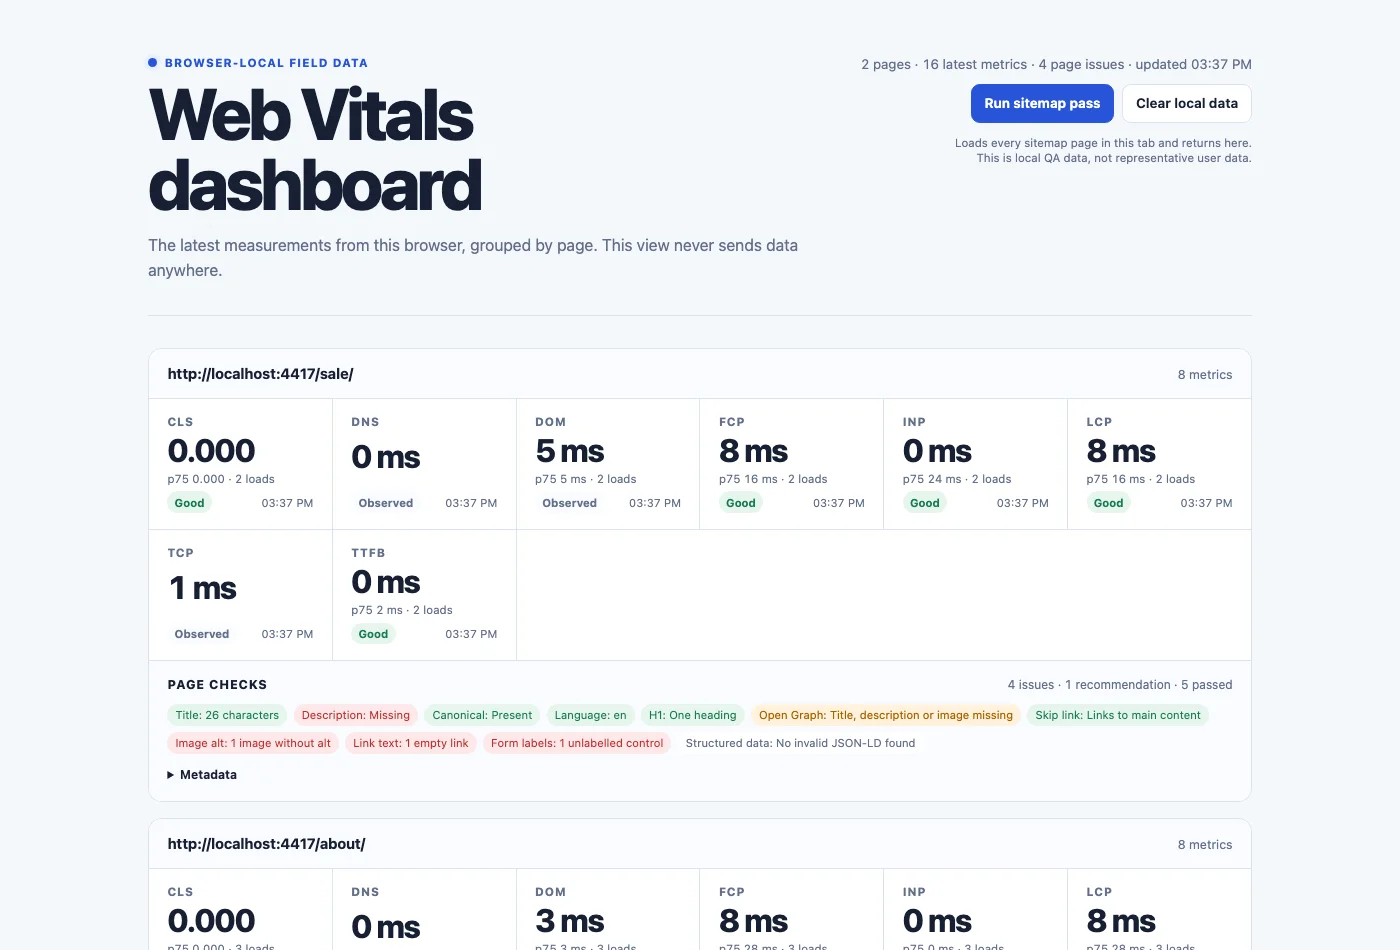
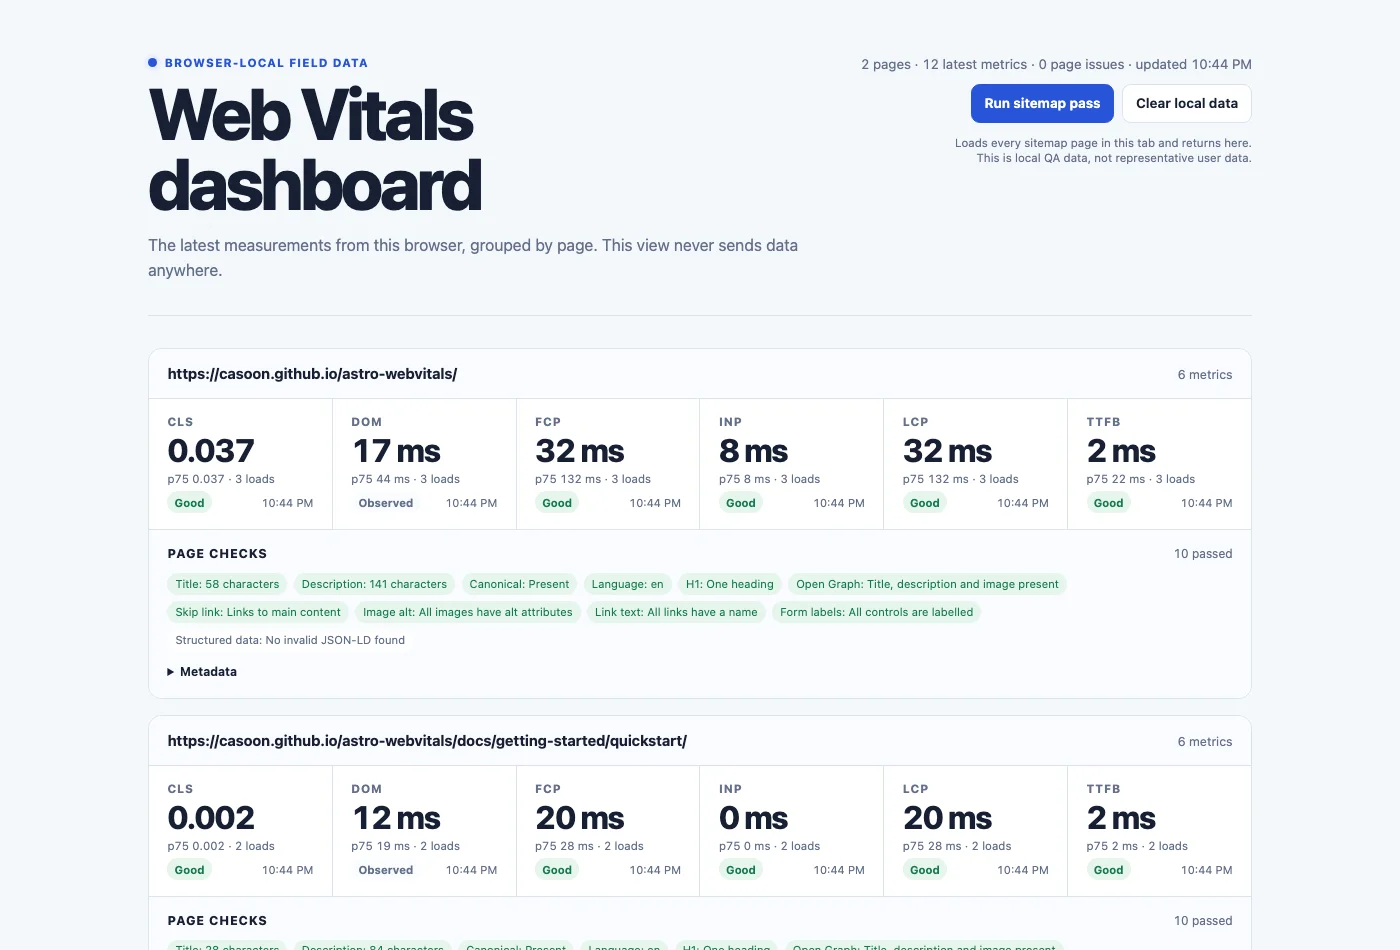
Pages: dashboard screenshot from pages of this site

diff --git a/CHANGELOG.md b/CHANGELOG.md
@@ -7,6 +7,10 @@ and this project adheres to [Semantic Versioning](https://semver.org/spec/v2.0.0
 
 ## [Unreleased]
 
+### Changed
+
+- **Pages:** the dashboard screenshot on the start page shows two pages of this site instead of local test pages.
+
 ## [0.5.1] - 2026-11-23
 
 ### Changed
